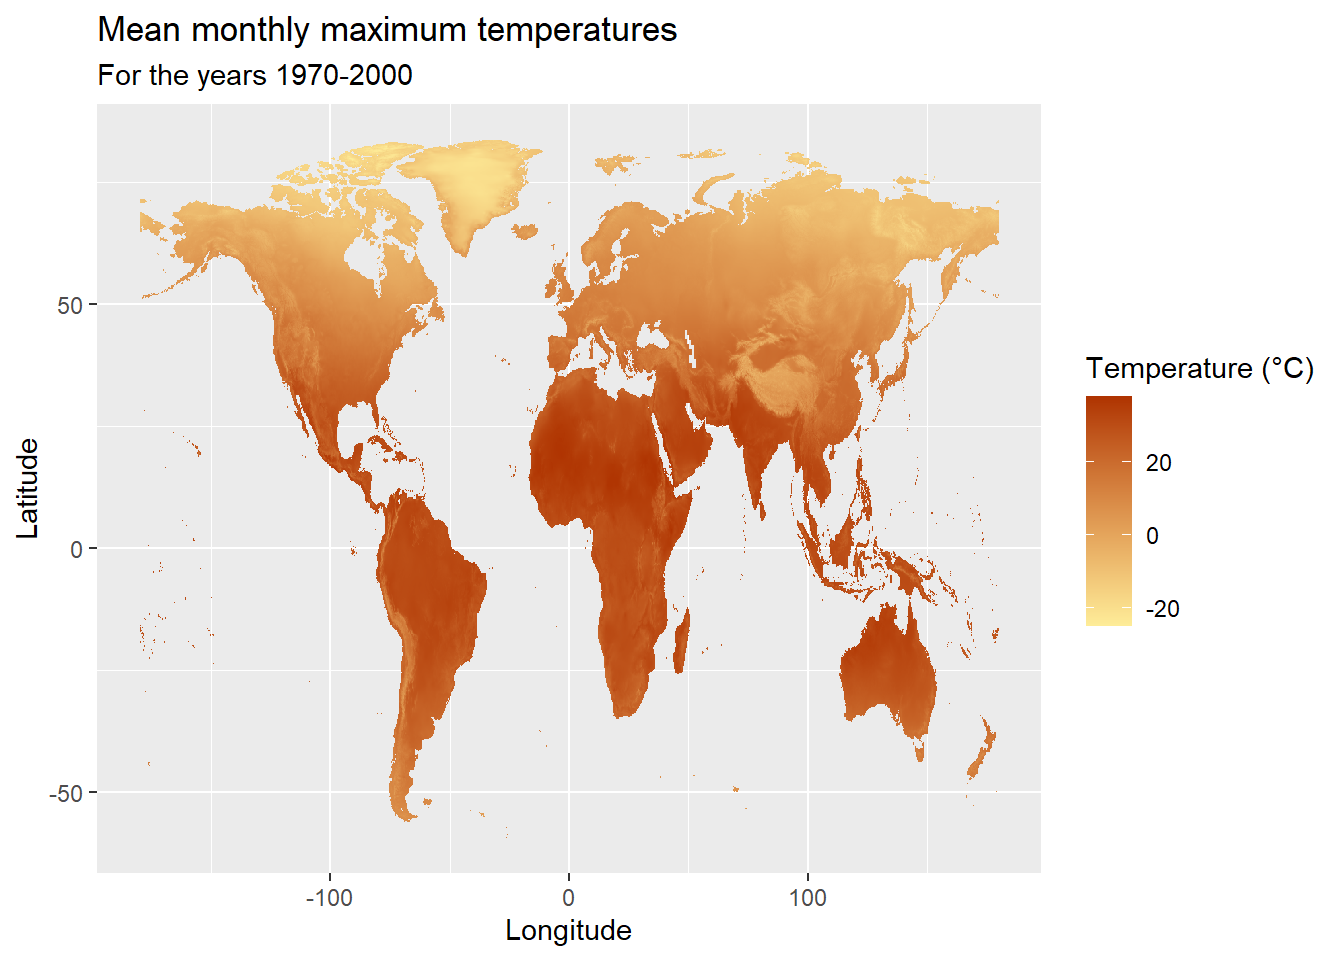
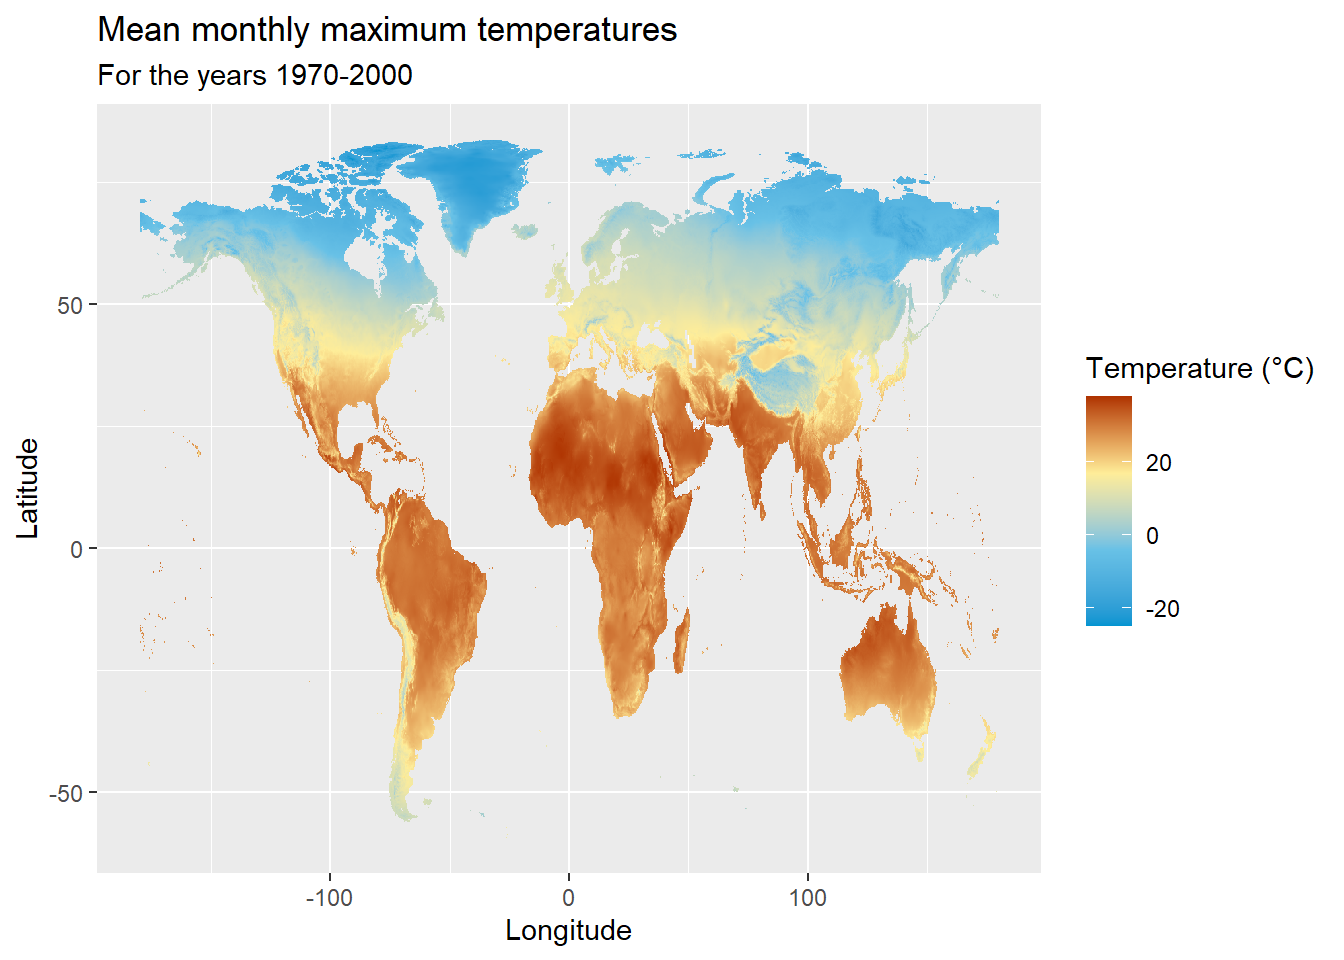
updated color scale and facet labels in temperature tutorial

diff --git a/docs/temperature.html b/docs/temperature.html
@@ -454,9 +454,9 @@ ggplot(data = tmax_data_may_df,
        subtitle = &quot;For the years 1970-2000&quot;) +
   xlab(&quot;Longitude&quot;) +
   ylab(&quot;Latitude&quot;) +
-  scale_fill_gradient(name = &quot;Temperature (°C)&quot;,
-                      low = &quot;#FEED99&quot;,
-                      high = &quot;#AF3301&quot;)</code></pre>
+  scale_fill_gradientn(name = &quot;Temperature (°C)&quot;,
+                       colours=c(&quot;#0094D1&quot;,&quot;#68C1E6&quot;, &quot;#FEED99&quot;,&quot;#AF3301&quot;),
+                       breaks = c(-20, 0, 20, 40))</code></pre>
 <p><img src="temperature_files/figure-html/visualise-may-maxtemp-1.png" width="672" /></p>
 </div>
 <div id="examples" class="section level2">
@@ -467,7 +467,7 @@ ggplot(data = tmax_data_may_df,
 <pre class="r"><code># install.packages(c(&quot;raster&quot;, &quot;ggplot2&quot;, &quot;tidyr&quot;))
 library(raster)
 library(ggplot2)
-library(tidyr)
+library(tidyverse)
 
 # Downloading monthly maximum temperature data
 tmax_data &lt;- getData(name = &quot;worldclim&quot;, var = &quot;tmax&quot;, res = 10)
@@ -479,9 +479,13 @@ gain(tmax_data)=0.1
 tmax_data_df &lt;- as.data.frame(tmax_data, xy = TRUE, na.rm = TRUE)
 rownames(tmax_data_df) &lt;- c()
 
-# Converting the dataframe into long format
+# Renaming the month columns, Converting the dataframe into long format and converting month column into a factor
 tmax_data_df_long &lt;- tmax_data_df %&gt;%
+  rename(&quot;January&quot; = &quot;tmax1&quot;, &quot;February&quot; = &quot;tmax2&quot;, &quot;March&quot; = &quot;tmax3&quot;, &quot;April&quot; = &quot;tmax4&quot;,
+         &quot;May&quot; = &quot;tmax5&quot;, &quot;June&quot; = &quot;tmax6&quot;, &quot;July&quot; = &quot;tmax7&quot;, &quot;August&quot; = &quot;tmax8&quot;,
+         &quot;September&quot; = &quot;tmax9&quot;, &quot;October&quot; = &quot;tmax10&quot;, &quot;November&quot; = &quot;tmax11&quot;, &quot;December&quot; = &quot;tmax12&quot;) %&gt;%
   pivot_longer(c(-x,-y), names_to = &quot;month&quot;, values_to = &quot;temp&quot;)
+tmax_data_df_long$month = factor(tmax_data_df_long$month, levels = month.name)
 
 tmax_data_df_long %&gt;%
   ggplot(aes(x=x,y=y)) +
@@ -491,9 +495,9 @@ tmax_data_df_long %&gt;%
        subtitle = &quot;For the years 1970-2000&quot;) +
   xlab(&quot;Longitude&quot;) +
   ylab(&quot;Latitude&quot;) +
-  scale_fill_gradient(name = &quot;Temperature (°C)&quot;,
-                      low = &quot;#FEED99&quot;,
-                      high = &quot;#AF3301&quot;)</code></pre>
+  scale_fill_gradientn(name = &quot;Temperature (°C)&quot;,
+                       colours=c(&quot;#006D9B&quot;,&quot;#0094D1&quot;,&quot;#68C1E6&quot;, &quot;#FEED99&quot;,&quot;#AF3301&quot;),
+                       breaks = c(-40, -20, 0, 20, 40))</code></pre>
 <p><img src="temperature_files/figure-html/visualise-monthly-maxtemp-example-1.png" width="672" /></p>
 </div>
 <div id="visualising-mean-monthly-temperature" class="section level3">
@@ -524,9 +528,9 @@ tmax_mean_df %&gt;%
        subtitle = &quot;For the years 1970-2000&quot;) +
   xlab(&quot;Longitude&quot;) +
   ylab(&quot;Latitude&quot;) +
-  scale_fill_gradient(name = &quot;Temperature (°C)&quot;,
-                      low = &quot;#FEED99&quot;,
-                      high = &quot;#AF3301&quot;)</code></pre>
+  scale_fill_gradientn(name = &quot;Temperature (°C)&quot;,
+                       colours=c(&quot;#0094D1&quot;,&quot;#68C1E6&quot;, &quot;#FEED99&quot;,&quot;#AF3301&quot;),
+                       breaks = c(-20, 0, 20, 40))</code></pre>
 <p><img src="temperature_files/figure-html/visualise-mean-maxtemp-example-1.png" width="672" /></p>
 </div>
 <div id="visualising-bioclimatic-variables" class="section level3">
@@ -555,9 +559,9 @@ bio5_df %&gt;%
        subtitle = &quot;In the time period 1970-2000&quot;) +
   xlab(&quot;Longitude&quot;) +
   ylab(&quot;Latitude&quot;) +
-  scale_fill_gradient(name = &quot;Temperature (°C)&quot;,
-                      low = &quot;#FEED99&quot;,
-                      high = &quot;#AF3301&quot;)</code></pre>
+  scale_fill_gradientn(name = &quot;Temperature (°C)&quot;,
+                       colours=c(&quot;#0094D1&quot;,&quot;#68C1E6&quot;, &quot;#FEED99&quot;,&quot;#AF3301&quot;),
+                       breaks = c(-20, 0, 20, 40))</code></pre>
 <p><img src="temperature_files/figure-html/warmest-month-maxtemp-example-1.png" width="672" /></p>
 </div>
 </div>
